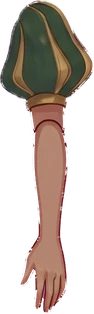
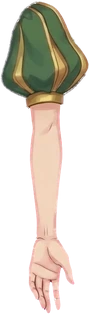
feat(rig): new far arm per facing and back-view forearms
- Side view: the far arm (behind the body) uses arm 2 when walking right
  and arm 1 (stored mirrored) when walking left.
- Back view: new bare forearms, straightened to hang from the sleeve; the
  z shift that hid the old hands behind the skirt is removed.

Claude-Session: https://claude.ai/code/session_0178JCr5DuUpPvDwy7b6AxGM

diff --git a/sw.js b/sw.js
@@ -43,8 +43,8 @@ const PRECACHE_URLS = [
   "./assets/art/avatar/back/bag_back.webp?v=40872",
   "./assets/art/avatar/back/cape.webp?v=2",
   "./assets/art/avatar/back/capelet.webp",
-  "./assets/art/avatar/back/forearm_left.webp?v=2",
-  "./assets/art/avatar/back/forearm_right.webp?v=2",
+  "./assets/art/avatar/back/forearm_left.webp?v=3",
+  "./assets/art/avatar/back/forearm_right.webp?v=3",
   "./assets/art/avatar/back/head.webp",
   "./assets/art/avatar/back/leg_left.webp?v=2",
   "./assets/art/avatar/back/leg_right.webp?v=2",
@@ -81,7 +81,8 @@ const PRECACHE_URLS = [
   "./assets/art/avatar/front/thigh_left.webp",
   "./assets/art/avatar/front/thigh_right.webp",
   "./assets/art/avatar/front/torso.webp",
-  "./assets/art/avatar/side/arm_far.webp",
+  "./assets/art/avatar/side/arm_far.webp?v=2",
+  "./assets/art/avatar/side/arm_far_left.webp?v=1",
   "./assets/art/avatar/side/arm_near.webp",
   "./assets/art/avatar/side/bag.webp?v=2",
   "./assets/art/avatar/side/bag_back.webp?v=7391",

diff --git a/tools/pack4.py b/tools/pack4.py
@@ -1,0 +1,65 @@
+"""Far-arm (side view) and back-view forearm replacements.
+
+Run: python3 tools/pack4.py <side arms sheet: arm 1, arm 2> <back forearms sheet>
+- side view facing right: far arm = arm 2
+- side view facing left:  far arm = arm 1 (stored mirrored; the rig mirrors the side view)
+- back view: forearms = the two bare arms (screen-left -> forearmL)
+Prints rig data for avatar-rig-data.mjs.
+"""
+import json, sys
+from pathlib import Path
+import numpy as np
+from PIL import Image
+sys.path.insert(0, str(Path(__file__).parent))
+from keyer import key, parts
+
+AV = Path(__file__).resolve().parent.parent / "assets/art/avatar"
+
+
+def tight(a, pad=2):
+    ys, xs = np.where(a[..., 3] > 12)
+    return a[max(0, ys.min() - pad):ys.max() + 1 + pad, max(0, xs.min() - pad):xs.max() + 1 + pad]
+
+
+def to_height(a, h):
+    im = Image.fromarray(a)
+    return np.array(im.resize((max(1, round(im.width * h / im.height)), h), Image.LANCZOS))
+
+
+def cx(a, y):
+    xs = np.where(a[min(y, a.shape[0] - 1), :, 3] > 128)[0]
+    return round(float((xs[0] + xs[-1]) / 2), 1) if len(xs) else a.shape[1] / 2
+
+
+def two_arms(path, min_area):
+    ps = sorted(parts(key(path), min_area=min_area), key=lambda p: -p["img"][..., 3].astype(bool).sum())[:2]
+    return [tight(p["img"]) for p in sorted(ps, key=lambda p: p["box"][0])]
+
+
+out = {}
+arm1, arm2 = two_arms(sys.argv[1], 8000)
+for name, a, mirror in (("armFar", arm2, False), ("armFarL", arm1, True)):
+    a = to_height(a, 314)
+    if mirror:
+        a = a[:, ::-1].copy()
+    fn = "arm_far.webp" if name == "armFar" else "arm_far_left.webp"
+    Image.fromarray(a).save(AV / "side" / fn, "WEBP", quality=92, method=6)
+    h = a.shape[0]
+    out[name] = {"file": fn, "w": a.shape[1], "h": h, "pivot": [cx(a, 19), 19.0], "end": [cx(a, h - 14), float(h - 14)]}
+
+def upright(a):
+    """Rotate a slanted arm so it hangs straight down from its top."""
+    h = a.shape[0]
+    top, bot = cx(a, int(h * 0.04)), cx(a, int(h * 0.96))
+    ang = np.degrees(np.arctan2(bot - top, h * 0.92))
+    im = Image.fromarray(a).rotate(-ang, resample=Image.BICUBIC, expand=True)
+    return tight(np.array(im))
+
+
+for side, a in zip(("L", "R"), two_arms(sys.argv[2], 600)):
+    a = to_height(upright(a), 233)
+    fn = f"forearm_{'left' if side == 'L' else 'right'}.webp"
+    Image.fromarray(a).save(AV / "back" / fn, "WEBP", quality=92, method=6)
+    h = a.shape[0]
+    out["forearm" + side] = {"file": fn, "w": a.shape[1], "h": h, "pivot": [cx(a, 8), 8.0], "end": [cx(a, h - 6), float(h - 6)]}
+print(json.dumps(out))
